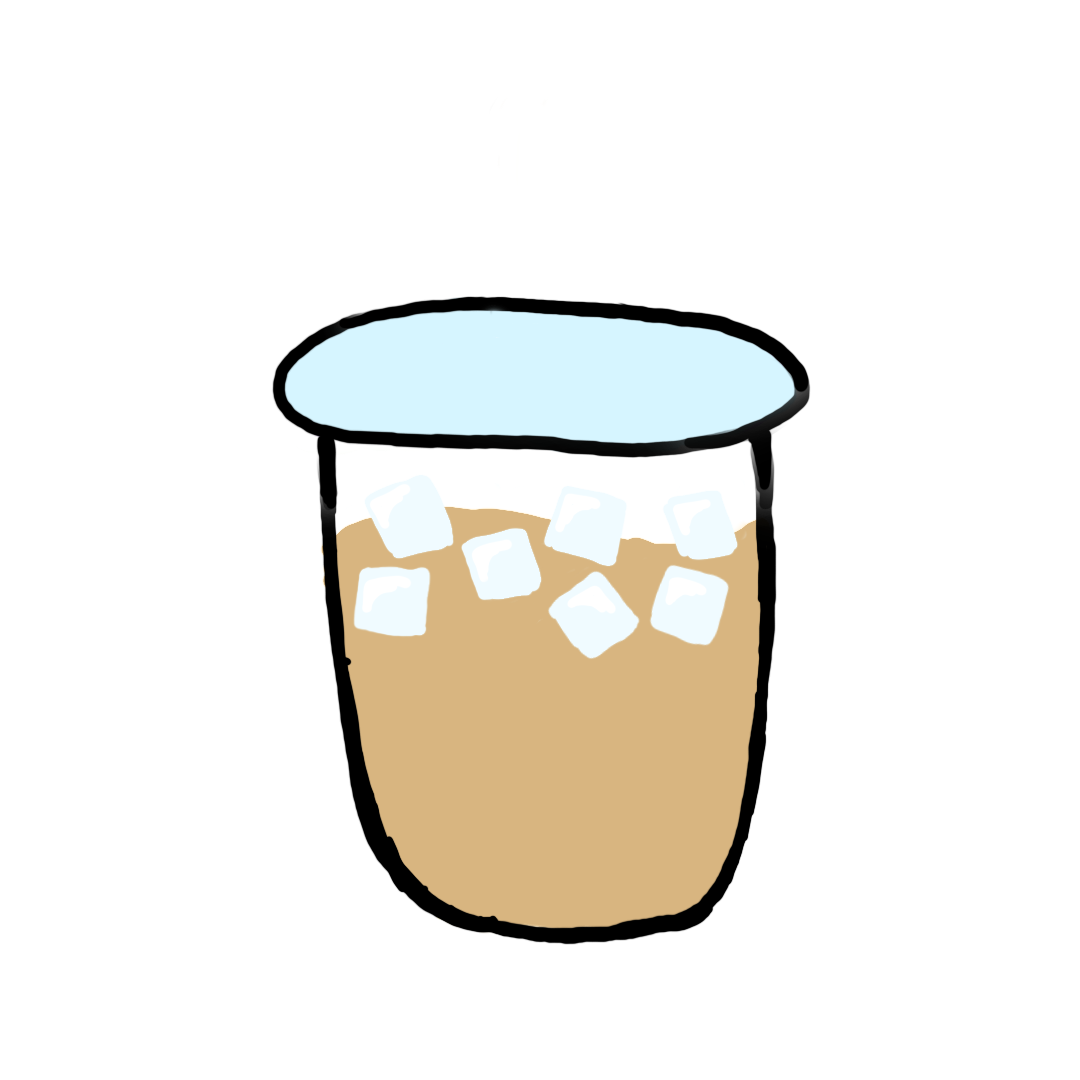
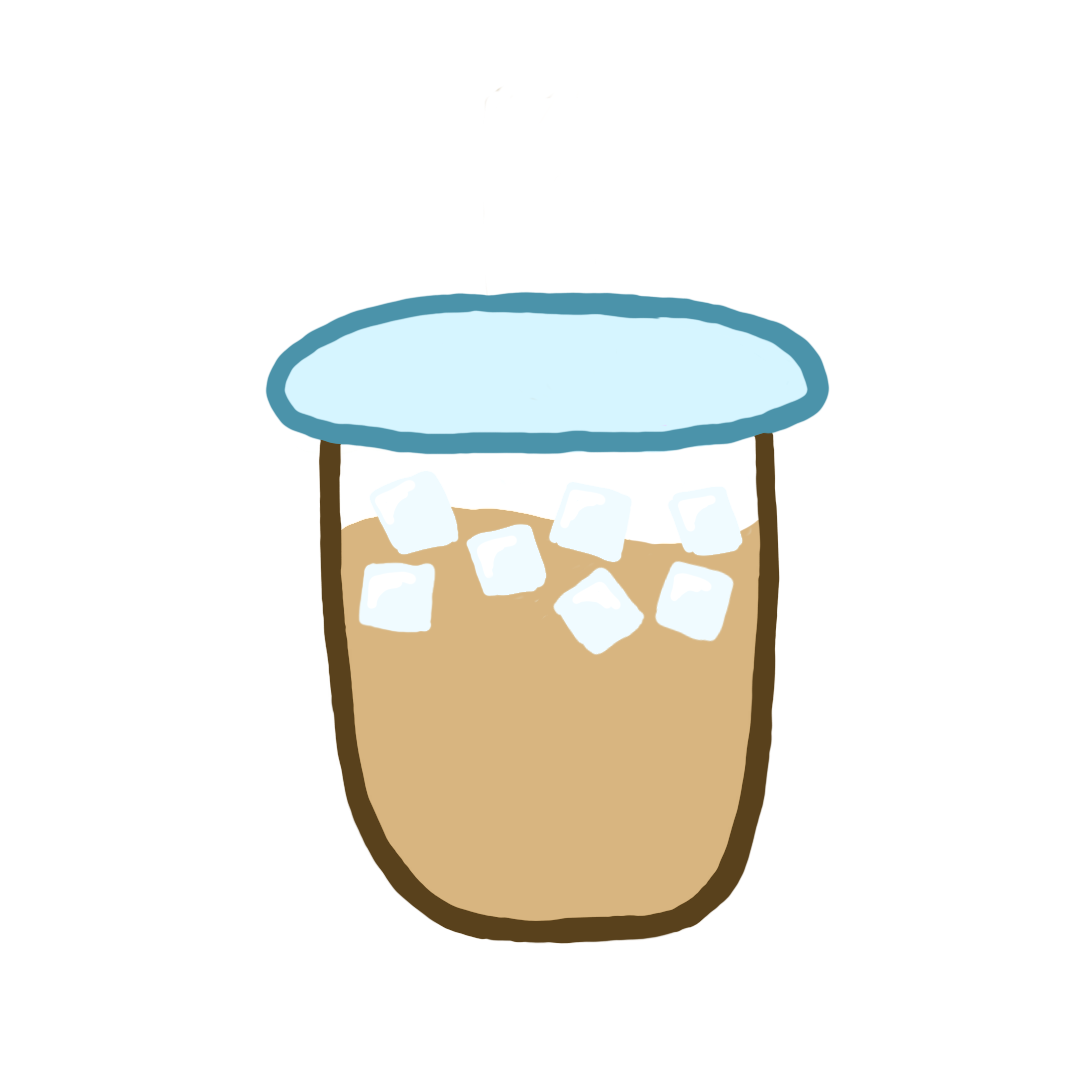
tip jar + showing coins earned

diff --git a/src/screens/GameScreen.java b/src/screens/GameScreen.java
@@ -28,7 +28,7 @@ public class GameScreen extends Screen {
 	
 	private ArrayList<PImage> teaImgs, sugarPetals;
 	private PImage background, emptyCup, teaLine, coins, 
-						coinBar, receipt, dispenser, counter, sugarClicked, bookmark, book;
+						coinBar, receipt, dispenser, counter, sugarClicked, bookmark, book, tipJar;
 
 	
 	private Customer customer;
@@ -40,7 +40,7 @@ public class GameScreen extends Screen {
 	
 	private PFont milkChoco;
 	
-	private int level, phase, resetCount, numCoins, count, iceIndex, textScoopCount;
+	private int level, phase, resetCount, numCoins, count, iceIndex, textScoopCount, addCoinsCount;
 	
 	private long startTime, levelTime;
 	private boolean teaClicked, iceFalling, playedIceSound, drawText, drawBook, runTutorial;
@@ -181,6 +181,7 @@ public class GameScreen extends Screen {
 		sugarPetals.add(surface.loadImage("sugarPetals/100sugarLeaf.png"));
 		
 		coins = surface.loadImage("gameScreen/coins.png");
+		tipJar = surface.loadImage("gameScreen/tipJar.png");
 		
 		//load audio files and add to the arrays
 		effectsPlayer = new JayLayer("audio/","audio/",true);
@@ -238,7 +239,7 @@ public class GameScreen extends Screen {
 		if (!(customer.getType().equals("bunny") || customer.getType().equals("capybara"))) {
 			surface.image(counter, 0, 0, 1200, 600);
 		}
-		
+		surface.image(tipJar, 370, 340, 310, 310);
 		//tutorial text
 		surface.push();
 		if (runTutorial) {
@@ -425,6 +426,13 @@ public class GameScreen extends Screen {
 			
 			//draw textbox
 			activateButtons();
+		}
+		
+		if (addCoinsCount > 0 && addCoinsCount < 30) {
+			surface.textSize(30);
+			surface.fill(255, 247, 157);
+			surface.text("+" + (finishedDrink.getPrice() + (int) ((finishedDrink.score() / 100.0) * 15)), 90, 355);
+			addCoinsCount++;
 		}
 		
 		if(level == 9) {
@@ -662,6 +670,8 @@ public class GameScreen extends Screen {
 					effectsPlayer.playSoundEffect(13);
 				}
 				level = 9;
+				addCoinsCount = 1;
+				
 			}
 			else if (buttons.get(22).isClicked(surface.mouseX, surface.mouseY) && buttons.get(22).isActive()) {
 				drawBook = true;
